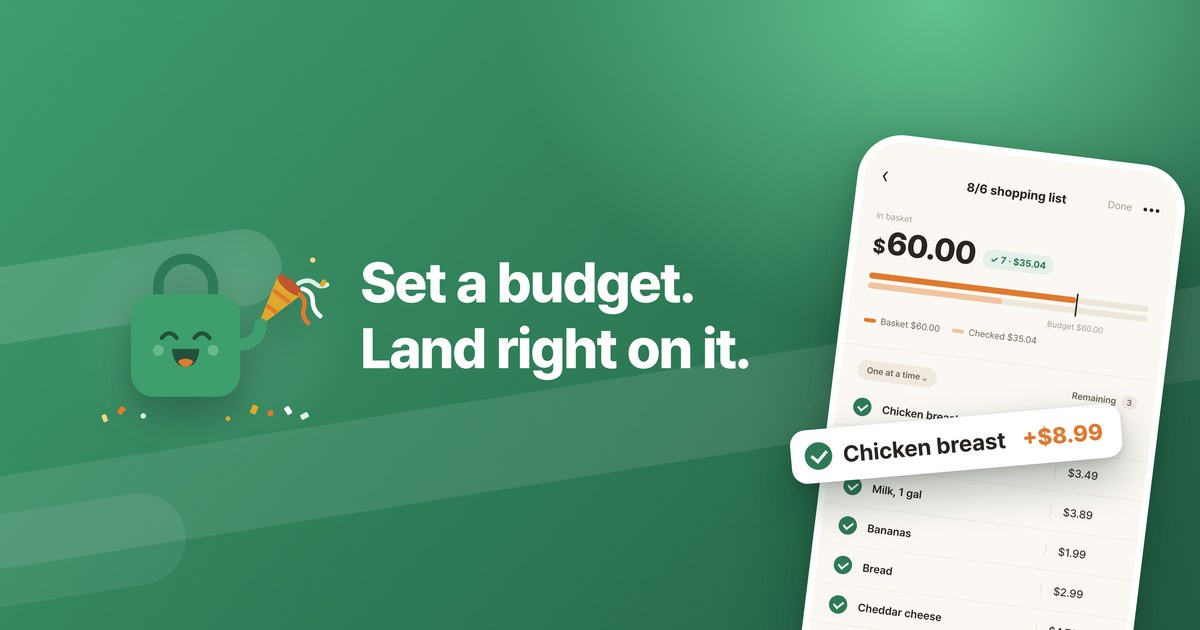
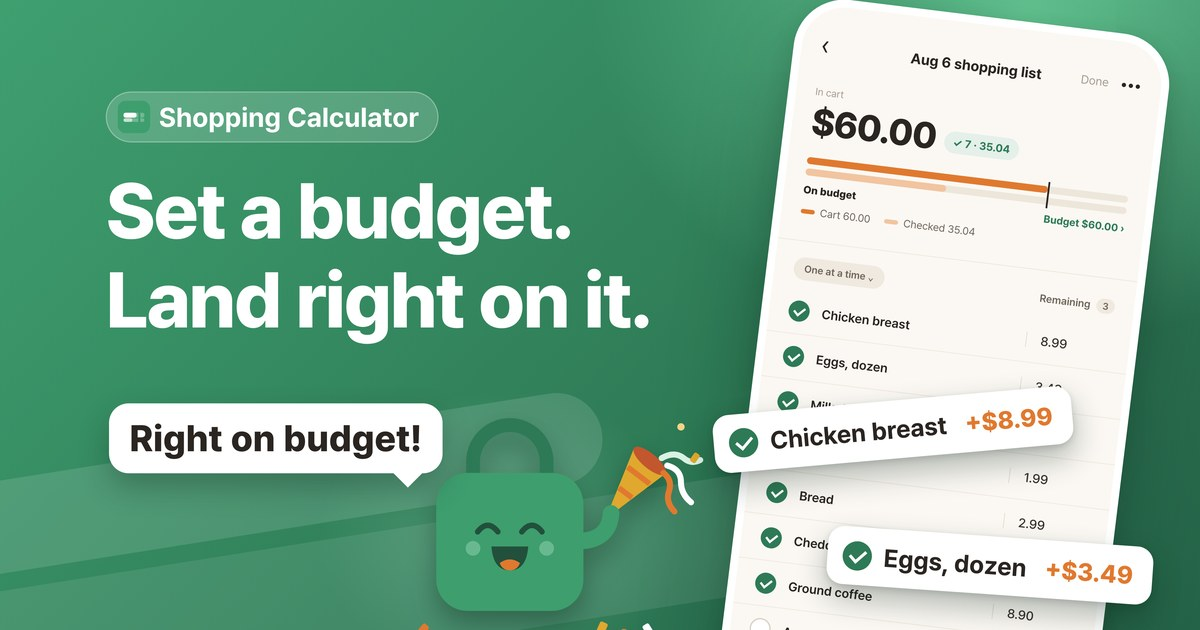
받기 페이지 스페인어·일본어 추가 + 미리 보기 그림 교체
앱 저장소 project_docs/site/brim/get/ 을 그대로 덮어씀(손으로 고치지 않음).

- es/index.html, ja/index.html — 새 받기 페이지(/brim/get/es/, /brim/get/ja/)
- og-es.jpg, og-ja.jpg — 두 페이지의 미리 보기 그림(1200×630)
- og-ko.jpg, og-en.jpg — 그림만 교체. 1.4.1 App Store 헤더가 바뀌어 옛
  방식으로 자르면 캐릭터가 잘려서, 검색 결과 그림에서 잘라 만든 판
- index.html, en/index.html — 변경 없음. 출시된 앱이 계속 쓰는 주소라
  지우거나 옮기지 않는다

앱 1.4.2가 스페인어·일본어 공유에 이 주소를 쓰기 전에 사이트에 먼저 올린다.

diff --git a/brim/get/ja/index.html b/brim/get/ja/index.html
@@ -1,0 +1,58 @@
+<!DOCTYPE html>
+<!-- 이 파일은 앱 저장소의 tool/gen_get_page.py가 만든다 — 직접 고치지 않는다. -->
+<html lang="ja">
+<head>
+<meta charset="utf-8">
+<script>(function(){var u=navigator.userAgent||"";if(/facebookexternalhit|Facebot|Twitterbot|kakaotalk-scrap/i.test(u))return;var ios=/iPhone|iPad|iPod/.test(u)||(/Macintosh/.test(u)&&navigator.maxTouchPoints>1);var to=ios?"https://apps.apple.com/app/id6799173101":/Android/i.test(u)?"https://play.google.com/store/apps/details?id=com.hankimsoft.brim&referrer=utm_source%3Dshare_link%26utm_medium%3Dapp_share%26utm_campaign%3Dshare_link":"";if(!to)return;try{if(sessionStorage.getItem("brimGet"))return;sessionStorage.setItem("brimGet","1")}catch(e){}var done=false;function go(){if(done)return;done=true;location.replace(to)}function painted(){requestAnimationFrame(function(){setTimeout(go,50)})}if(document.readyState==="complete")painted();else window.addEventListener("load",painted);setTimeout(go,1500)})();</script>
+<meta name="viewport" content="width=device-width, initial-scale=1">
+<title>アプリをダウンロード | Brim - 買い物電卓</title>
+<meta name="description" content="このリストはBrimで作りました。書くたびに合計がすぐわかります。">
+<meta name="robots" content="noindex">
+<meta name="apple-itunes-app" content="app-id=6799173101">
+<link rel="icon" href="/brim/assets/icon.svg" type="image/svg+xml">
+<meta property="og:type" content="website">
+<meta property="og:locale" content="ja_JP">
+<meta property="og:site_name" content="Brim">
+<meta property="og:title" content="アプリをダウンロード | Brim - 買い物電卓">
+<meta property="og:description" content="このリストはBrimで作りました。書くたびに合計がすぐわかります。">
+<meta property="og:url" content="https://hankimsoft.github.io/brim/get/ja/">
+<meta property="og:image" content="https://hankimsoft.github.io/brim/get/og-ja.jpg">
+<meta property="og:image:width" content="1200">
+<meta property="og:image:height" content="630">
+<meta name="twitter:card" content="summary_large_image">
+<link rel="preconnect" href="https://cdn.jsdelivr.net" crossorigin>
+<link rel="stylesheet" href="https://cdn.jsdelivr.net/gh/orioncactus/pretendard@v1.3.9/dist/web/variable/pretendardvariable-dynamic-subset.min.css">
+<style>
+:root{color-scheme:light}
+*{box-sizing:border-box}
+html{-webkit-text-size-adjust:100%}
+body{margin:0;background:#F4EFE6;color:#2A2521;word-break:keep-all;
+  font-family:'Pretendard Variable',Pretendard,-apple-system,BlinkMacSystemFont,'Apple SD Gothic Neo',system-ui,sans-serif}
+main{max-width:440px;margin:0 auto;padding:24px 20px 40px}
+.art{display:block;width:100%;height:auto;border-radius:20px}
+.name{display:flex;align-items:center;gap:12px;margin-top:26px}
+.name img{width:44px;height:44px;border-radius:24%;flex:none}
+h1{margin:0;font-size:22px;line-height:1.25;letter-spacing:-.5px;font-weight:800}
+.sub{margin:12px 0 0;font-size:16px;line-height:1.55;color:#5C544B}
+.btns{display:grid;gap:10px;margin-top:26px}
+.btn{display:flex;align-items:center;justify-content:center;gap:10px;min-height:56px;padding:14px 22px;
+  border-radius:14px;font-size:16px;font-weight:700;letter-spacing:-.2px;text-decoration:none}
+.dark{background:#2A2521;color:#FBF8F3}
+.light{background:#FBF8F3;color:#2A2521;border:1px solid #DACFBC}
+.more{display:block;margin-top:24px;padding:12px;text-align:center;font-size:14.5px;font-weight:600;color:#5C544B}
+a:focus-visible{outline:2px solid #2A2521;outline-offset:3px}
+</style>
+</head>
+<body>
+<main>
+  <img class="art" src="/brim/get/og-ja.jpg" width="1200" height="630" alt="予算を決めて、ぴったり合わせる">
+  <div class="name"><img src="/brim/assets/icon.svg" alt=""><h1>Brim - 買い物電卓</h1></div>
+  <p class="sub">書くたびに合計がすぐわかる<br>予算を決めて、ぴったり合わせる</p>
+  <div class="btns">
+    <a class="btn dark" href="https://apps.apple.com/app/id6799173101"><svg viewBox="0 0 24 24" width="20" height="20" fill="currentColor" aria-hidden="true"><path d="M16.6 12.8c0-2.3 1.9-3.4 2-3.5-1.1-1.6-2.8-1.8-3.4-1.9-1.5-.1-2.8.8-3.5.8-.7 0-1.8-.8-3-.8-1.6 0-3 .9-3.8 2.3-1.6 2.8-.4 7 1.2 9.3.8 1.1 1.7 2.3 2.9 2.3 1.2 0 1.6-.7 3-.7 1.4 0 1.8.7 3 .7 1.2 0 2-1.1 2.8-2.2.9-1.3 1.3-2.5 1.3-2.6-.1 0-2.5-1-2.5-3.7zM14.4 5.6c.6-.8 1-1.8.9-2.9-.9 0-2 .6-2.7 1.4-.6.7-1 1.8-.9 2.8 1 .1 2.1-.5 2.7-1.3z"/></svg><span>App Storeからダウンロード</span></a>
+    <a class="btn light" href="https://play.google.com/store/apps/details?id=com.hankimsoft.brim&amp;referrer=utm_source%3Dshare_link%26utm_medium%3Dapp_share%26utm_campaign%3Dshare_link"><svg viewBox="0 0 24 24" width="20" height="20" aria-hidden="true"><path d="M3.6 2.3c-.3.3-.5.8-.5 1.4v16.6c0 .6.2 1.1.5 1.4l9.1-9.7L3.6 2.3z" fill="#2E7A56"/><path d="M16.1 15.2l-3.4-3.2-9.1 9.7c.4.4 1.1.5 1.8.1l10.7-6.6z" fill="#2A2521"/><path d="M20.3 10.6l-4.2-2.6-3.4 3.9 3.4 3.3 4.2-2.6c.9-.6.9-1.5 0-2z" fill="#C9853F"/><path d="M16.1 8L5.4 1.4c-.7-.4-1.4-.3-1.8.1l9.1 10.3L16.1 8z" fill="#7FBF9A"/></svg><span>Google Playで手に入れよう</span></a>
+  </div>
+  <a class="more" href="/brim/">Brimについて詳しく</a>
+</main>
+</body>
+</html>

diff --git a/brim/get/es/index.html b/brim/get/es/index.html
@@ -1,0 +1,58 @@
+<!DOCTYPE html>
+<!-- 이 파일은 앱 저장소의 tool/gen_get_page.py가 만든다 — 직접 고치지 않는다. -->
+<html lang="es">
+<head>
+<meta charset="utf-8">
+<script>(function(){var u=navigator.userAgent||"";if(/facebookexternalhit|Facebot|Twitterbot|kakaotalk-scrap/i.test(u))return;var ios=/iPhone|iPad|iPod/.test(u)||(/Macintosh/.test(u)&&navigator.maxTouchPoints>1);var to=ios?"https://apps.apple.com/app/id6799173101":/Android/i.test(u)?"https://play.google.com/store/apps/details?id=com.hankimsoft.brim&referrer=utm_source%3Dshare_link%26utm_medium%3Dapp_share%26utm_campaign%3Dshare_link":"";if(!to)return;try{if(sessionStorage.getItem("brimGet"))return;sessionStorage.setItem("brimGet","1")}catch(e){}var done=false;function go(){if(done)return;done=true;location.replace(to)}function painted(){requestAnimationFrame(function(){setTimeout(go,50)})}if(document.readyState==="complete")painted();else window.addEventListener("load",painted);setTimeout(go,1500)})();</script>
+<meta name="viewport" content="width=device-width, initial-scale=1">
+<title>Descarga la app | Brim - Calculadora de compras</title>
+<meta name="description" content="Esta lista está hecha con Brim. El total se suma con cada artículo.">
+<meta name="robots" content="noindex">
+<meta name="apple-itunes-app" content="app-id=6799173101">
+<link rel="icon" href="/brim/assets/icon.svg" type="image/svg+xml">
+<meta property="og:type" content="website">
+<meta property="og:locale" content="es_LA">
+<meta property="og:site_name" content="Brim">
+<meta property="og:title" content="Descarga la app | Brim - Calculadora de compras">
+<meta property="og:description" content="Esta lista está hecha con Brim. El total se suma con cada artículo.">
+<meta property="og:url" content="https://hankimsoft.github.io/brim/get/es/">
+<meta property="og:image" content="https://hankimsoft.github.io/brim/get/og-es.jpg">
+<meta property="og:image:width" content="1200">
+<meta property="og:image:height" content="630">
+<meta name="twitter:card" content="summary_large_image">
+<link rel="preconnect" href="https://cdn.jsdelivr.net" crossorigin>
+<link rel="stylesheet" href="https://cdn.jsdelivr.net/gh/orioncactus/pretendard@v1.3.9/dist/web/variable/pretendardvariable-dynamic-subset.min.css">
+<style>
+:root{color-scheme:light}
+*{box-sizing:border-box}
+html{-webkit-text-size-adjust:100%}
+body{margin:0;background:#F4EFE6;color:#2A2521;word-break:keep-all;
+  font-family:'Pretendard Variable',Pretendard,-apple-system,BlinkMacSystemFont,'Apple SD Gothic Neo',system-ui,sans-serif}
+main{max-width:440px;margin:0 auto;padding:24px 20px 40px}
+.art{display:block;width:100%;height:auto;border-radius:20px}
+.name{display:flex;align-items:center;gap:12px;margin-top:26px}
+.name img{width:44px;height:44px;border-radius:24%;flex:none}
+h1{margin:0;font-size:22px;line-height:1.25;letter-spacing:-.5px;font-weight:800}
+.sub{margin:12px 0 0;font-size:16px;line-height:1.55;color:#5C544B}
+.btns{display:grid;gap:10px;margin-top:26px}
+.btn{display:flex;align-items:center;justify-content:center;gap:10px;min-height:56px;padding:14px 22px;
+  border-radius:14px;font-size:16px;font-weight:700;letter-spacing:-.2px;text-decoration:none}
+.dark{background:#2A2521;color:#FBF8F3}
+.light{background:#FBF8F3;color:#2A2521;border:1px solid #DACFBC}
+.more{display:block;margin-top:24px;padding:12px;text-align:center;font-size:14.5px;font-weight:600;color:#5C544B}
+a:focus-visible{outline:2px solid #2A2521;outline-offset:3px}
+</style>
+</head>
+<body>
+<main>
+  <img class="art" src="/brim/get/og-es.jpg" width="1200" height="630" alt="Fija un presupuesto y da en el blanco">
+  <div class="name"><img src="/brim/assets/icon.svg" alt=""><h1>Brim - Calculadora de compras</h1></div>
+  <p class="sub">El total se suma con cada artículo que anotas.<br>Fija un presupuesto y da en el blanco.</p>
+  <div class="btns">
+    <a class="btn dark" href="https://apps.apple.com/app/id6799173101"><svg viewBox="0 0 24 24" width="20" height="20" fill="currentColor" aria-hidden="true"><path d="M16.6 12.8c0-2.3 1.9-3.4 2-3.5-1.1-1.6-2.8-1.8-3.4-1.9-1.5-.1-2.8.8-3.5.8-.7 0-1.8-.8-3-.8-1.6 0-3 .9-3.8 2.3-1.6 2.8-.4 7 1.2 9.3.8 1.1 1.7 2.3 2.9 2.3 1.2 0 1.6-.7 3-.7 1.4 0 1.8.7 3 .7 1.2 0 2-1.1 2.8-2.2.9-1.3 1.3-2.5 1.3-2.6-.1 0-2.5-1-2.5-3.7zM14.4 5.6c.6-.8 1-1.8.9-2.9-.9 0-2 .6-2.7 1.4-.6.7-1 1.8-.9 2.8 1 .1 2.1-.5 2.7-1.3z"/></svg><span>Descárgalo en el App Store</span></a>
+    <a class="btn light" href="https://play.google.com/store/apps/details?id=com.hankimsoft.brim&amp;referrer=utm_source%3Dshare_link%26utm_medium%3Dapp_share%26utm_campaign%3Dshare_link"><svg viewBox="0 0 24 24" width="20" height="20" aria-hidden="true"><path d="M3.6 2.3c-.3.3-.5.8-.5 1.4v16.6c0 .6.2 1.1.5 1.4l9.1-9.7L3.6 2.3z" fill="#2E7A56"/><path d="M16.1 15.2l-3.4-3.2-9.1 9.7c.4.4 1.1.5 1.8.1l10.7-6.6z" fill="#2A2521"/><path d="M20.3 10.6l-4.2-2.6-3.4 3.9 3.4 3.3 4.2-2.6c.9-.6.9-1.5 0-2z" fill="#C9853F"/><path d="M16.1 8L5.4 1.4c-.7-.4-1.4-.3-1.8.1l9.1 10.3L16.1 8z" fill="#7FBF9A"/></svg><span>Descargar en Google Play</span></a>
+  </div>
+  <a class="more" href="/brim/">Conoce más sobre Brim</a>
+</main>
+</body>
+</html>
